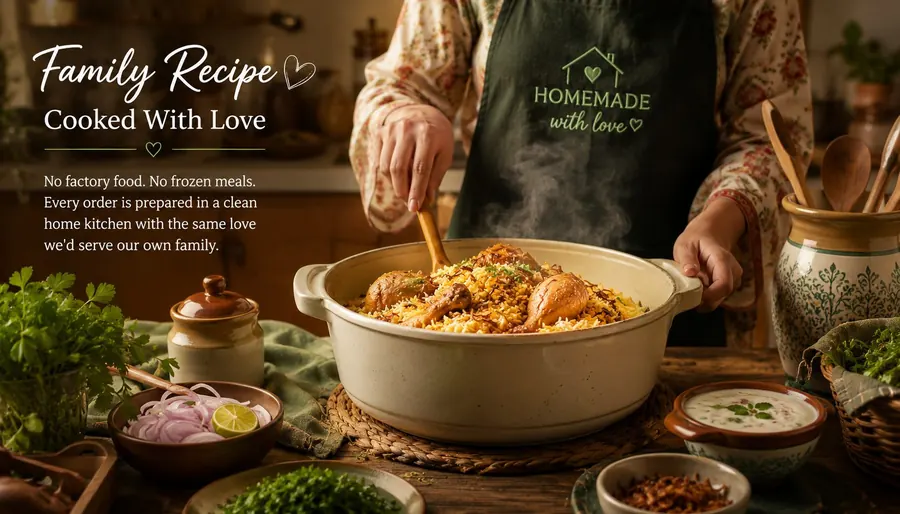
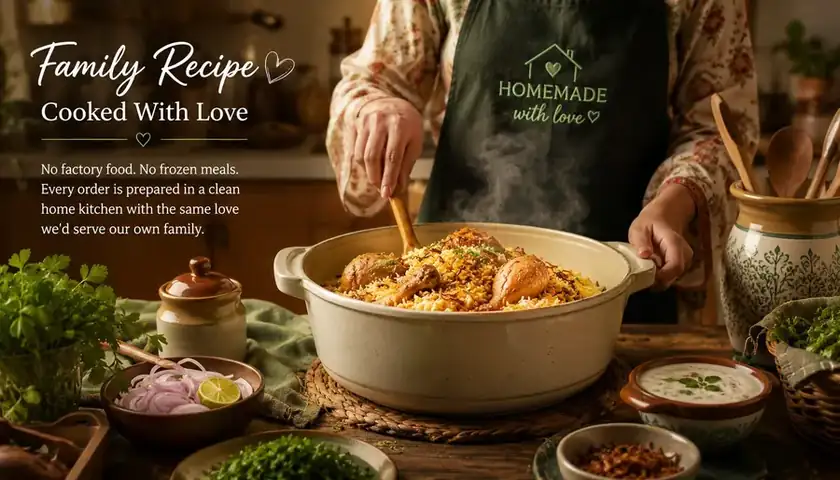
more optimized

diff --git a/index.html b/index.html
@@ -58,13 +58,13 @@ content="Authentic homemade Karachi-style Chicken Biryani every Friday, plus a 6
 <link rel="preconnect" href="https://fonts.gstatic.com" crossorigin>
 
 <link rel="preload" as="image" fetchpriority="high"
-href="https://images.unsplash.com/photo-1589302168068-964664d93dc0?auto=format&fit=crop&w=1800&q=60">
+href="https://images.unsplash.com/photo-1589302168068-964664d93dc0?auto=format&fit=crop&w=1800&q=45">
 
-<link href="https://fonts.googleapis.com/css2?family=Poppins:wght@300;400;500;600;700;800&display=swap" rel="stylesheet">
-
+<link rel="preload" as="style" href="https://fonts.googleapis.com/css2?family=Poppins:wght@300;400;500;600;700;800&display=swap" onload="this.onload=null;this.rel='stylesheet'">
 <link rel="preload" as="style" href="https://fonts.googleapis.com/icon?family=Material+Icons&display=swap" onload="this.onload=null;this.rel='stylesheet'">
 <link rel="preload" as="style" href="https://unpkg.com/aos@2.3.4/dist/aos.css" onload="this.onload=null;this.rel='stylesheet'">
 <noscript>
+<link href="https://fonts.googleapis.com/css2?family=Poppins:wght@300;400;500;600;700;800&display=swap" rel="stylesheet">
 <link href="https://fonts.googleapis.com/icon?family=Material+Icons&display=swap" rel="stylesheet">
 <link href="https://unpkg.com/aos@2.3.4/dist/aos.css" rel="stylesheet">
 </noscript>
@@ -284,6 +284,8 @@ display:flex;
 
 align-items:center;
 
+flex-shrink:0;
+
 }
 
 .logo img{
@@ -295,6 +297,8 @@ width:auto;
 max-width:100%;
 
 display:block;
+
+object-fit:contain;
 
 }
 
@@ -328,7 +332,7 @@ color:#2E7D32;
 
 .order-btn{
 
-background:#4CAF50;
+background:#2E7D32;
 
 padding:12px 24px;
 
@@ -380,7 +384,7 @@ background:
 
 linear-gradient(rgba(0,0,0,.55),rgba(0,0,0,.55)),
 
-url("https://images.unsplash.com/photo-1589302168068-964664d93dc0?auto=format&fit=crop&w=1800&q=60");
+url("https://images.unsplash.com/photo-1589302168068-964664d93dc0?auto=format&fit=crop&w=1800&q=45");
 
 background-size:cover;
 
@@ -454,7 +458,7 @@ transition:.35s;
 
 .primary{
 
-background:#4CAF50;
+background:#2E7D32;
 
 color:white;
 
@@ -472,13 +476,13 @@ box-shadow:0 15px 35px rgba(76,175,80,.5);
 
 background:white;
 
-color:#4CAF50;
+color:#2E7D32;
 
 }
 
 .secondary:hover{
 
-background:#4CAF50;
+background:#2E7D32;
 
 color:white;
 
@@ -580,7 +584,7 @@ font-size:28px;
 
 font-weight:800;
 
-color:#4CAF50;
+color:#2E7D32;
 
 margin-top:18px;
 
@@ -756,6 +760,8 @@ height:46px;
 
 max-width:100%;
 
+object-fit:contain;
+
 }
 
 .order-btn{
@@ -921,7 +927,7 @@ transition:.2s;
 }
 
 #captureLocationBtn:hover{
-background:#4CAF50;
+background:#2E7D32;
 color:white;
 }
 
@@ -1174,7 +1180,7 @@ background:rgba(255,255,255,.32);
 }
 
 .copy-btn.copied{
-background:#4CAF50;
+background:#2E7D32;
 }
 
 .stc-card{
@@ -1372,7 +1378,7 @@ Every grain of rice is infused with traditional spices, tender chicken, potatoes
 
 <div class="card" data-aos="fade-up" data-aos-delay="150">
 
-<img src="https://images.unsplash.com/photo-1512058564366-18510be2db19?auto=format&fit=crop&w=720&q=65" alt="Fresh premium ingredients used in Karachi Jumma Biryani recipes" loading="lazy" width="720" height="480">
+<img src="https://images.unsplash.com/photo-1512058564366-18510be2db19?auto=format&fit=crop&w=722&h=480&q=55" alt="Fresh premium ingredients used in Karachi Jumma Biryani recipes" loading="lazy" width="722" height="480">
 
 <div class="card-content">
 
@@ -1396,7 +1402,7 @@ Fresh vegetables, premium basmati rice, halal meat, aromatic herbs and hand-sele
 
 <picture>
 <source srcset="./images/card-family.webp" type="image/webp">
-<img src="./images/card-family.jpg" alt="Family enjoying a homemade Karachi Jumma Biryani meal together" loading="lazy" width="900" height="514">
+<img src="./images/card-family.jpg" alt="Family enjoying a homemade Karachi Jumma Biryani meal together" loading="lazy" width="840" height="480">
 </picture>
 
 <div class="card-content">
@@ -1532,7 +1538,7 @@ Fresh ingredients. Homemade recipes. Authentic taste.
 
 <div class="card-content" style="text-align:center;">
 
-<div style="font-size:60px;color:#4CAF50;">
+<div style="font-size:60px;color:#2E7D32;">
 
 <i class="material-icons">restaurant</i>
 
@@ -1554,7 +1560,7 @@ Prepared using traditional Karachi family recipes that have been loved for gener
 
 <div class="card-content" style="text-align:center;">
 
-<div style="font-size:60px;color:#4CAF50;">
+<div style="font-size:60px;color:#2E7D32;">
 
 <i class="material-icons">eco</i>
 
@@ -1576,7 +1582,7 @@ Only premium vegetables, halal meat, aromatic rice and fresh spices are used eve
 
 <div class="card-content" style="text-align:center;">
 
-<div style="font-size:60px;color:#4CAF50;">
+<div style="font-size:60px;color:#2E7D32;">
 
 <i class="material-icons">delivery_dining</i>
 
@@ -1894,7 +1900,7 @@ Craving something specific? Pick from our menu or tell us your own recipe, choos
 
 <div class="custom-order-cta" data-aos="zoom-in">
 
-<div style="font-size:55px;color:#4CAF50;">
+<div style="font-size:55px;color:#2E7D32;">
 
 <svg class="icon" aria-hidden="true"><use href="#icon-utensils"></use></svg>
 
@@ -1964,7 +1970,7 @@ style="text-align:center;">
 
 style="font-size:20px;
 font-weight:bold;
-color:#4CAF50;">
+color:#2E7D32;">
 
 ⭐ MOST POPULAR ⭐
 
@@ -1999,7 +2005,7 @@ Prepared Daily
 style="font-size:55px;
 font-weight:bold;
 margin:30px 0;
-color:#4CAF50;">
+color:#2E7D32;">
 
 SAR. 700
 
@@ -2234,7 +2240,7 @@ Your payment screenshot is uploaded securely and a private link is sent with you
 
 <div class="card-content" style="text-align:center;">
 
-<p style="font-size:60px;color:#4CAF50;font-weight:800;">
+<p style="font-size:60px;color:#2E7D32;font-weight:800;">
 
 100%
 
@@ -2250,7 +2256,7 @@ Your payment screenshot is uploaded securely and a private link is sent with you
 
 <div class="card-content" style="text-align:center;">
 
-<p style="font-size:60px;color:#4CAF50;font-weight:800;">
+<p style="font-size:60px;color:#2E7D32;font-weight:800;">
 
 6
 
@@ -2266,7 +2272,7 @@ Your payment screenshot is uploaded securely and a private link is sent with you
 
 <div class="card-content" style="text-align:center;">
 
-<p style="font-size:60px;color:#4CAF50;font-weight:800;">
+<p style="font-size:60px;color:#2E7D32;font-weight:800;">
 
 Every
 
@@ -2282,7 +2288,7 @@ Every
 
 <div class="card-content" style="text-align:center;">
 
-<p style="font-size:60px;color:#4CAF50;font-weight:800;">
+<p style="font-size:60px;color:#2E7D32;font-weight:800;">
 
 Fresh
 
@@ -3049,7 +3055,7 @@ width:55px;
 height:55px;
 border:none;
 border-radius:50%;
-background:#4CAF50;
+background:#2E7D32;
 color:white;
 font-size:22px;
 cursor:pointer;
